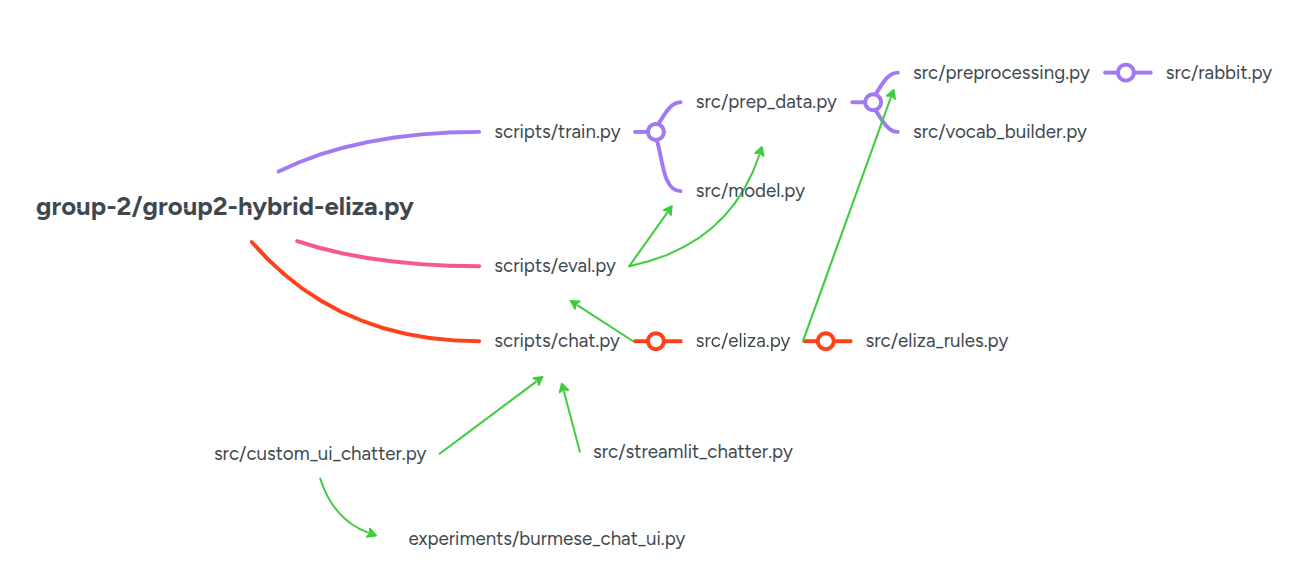
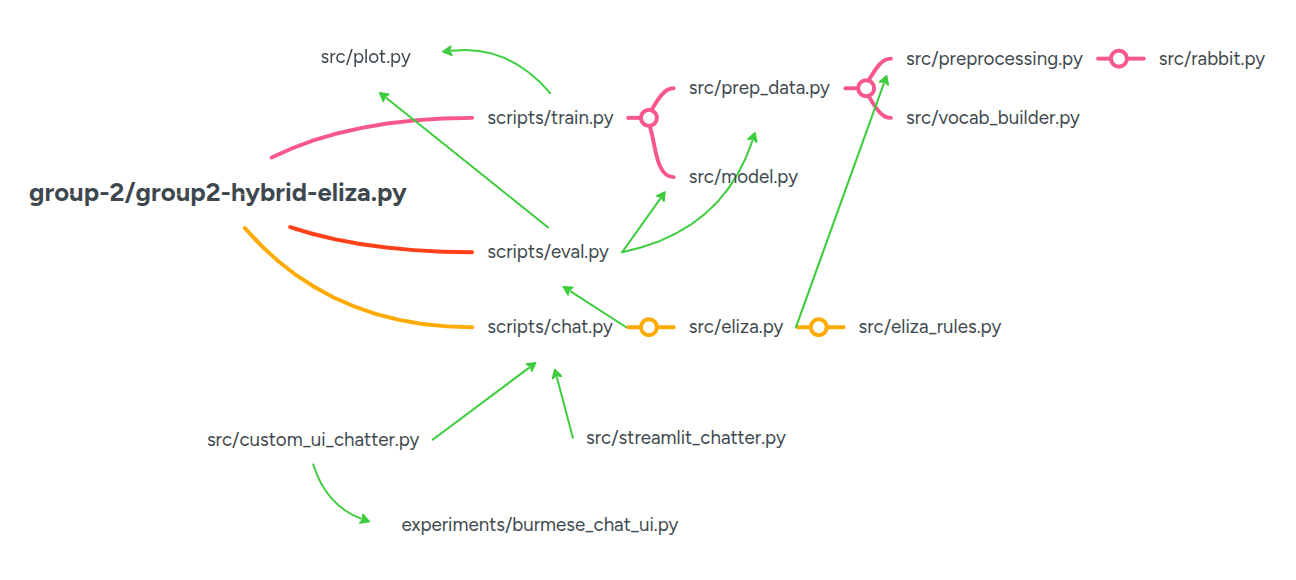
added cm function

diff --git a/assignment-submission/class-1/group-2/src/plot.py b/assignment-submission/class-1/group-2/src/plot.py
@@ -1,0 +1,73 @@
+"""Confusion matrix figure for emotion evaluation (saved PNG, no display required)."""
+
+from __future__ import annotations
+
+import os
+
+import matplotlib
+
+matplotlib.use("Agg")
+import matplotlib.pyplot as plt
+import numpy as np
+import seaborn as sns
+from sklearn.metrics import confusion_matrix
+
+# english axis labels for slides (same class order as src.vocab_builder.DEFAULT_LABEL_ORDER)
+EMOTION_LABELS_EN = ("Sadness", "Joy", "Love", "Anger", "Fear", "Surprise")
+
+
+# function to map class ids to english names for plots/reports; unknown ids fall back to id2label
+def emotion_display_names_en(labels_order: list[int], id2label: dict[int, str]) -> list[str]:
+    out: list[str] = []
+    for i in labels_order:
+        if 0 <= i < len(EMOTION_LABELS_EN):
+            out.append(EMOTION_LABELS_EN[i])
+        else:
+            out.append(str(id2label.get(i, i)))
+    return out
+
+
+# function to save a confusion matrix heatmap for integer class ids and id2label names
+def save_confusion_matrix_png(
+    y_true: list[int] | np.ndarray,
+    y_pred: list[int] | np.ndarray,
+    id2label: dict[int, str],
+    out_path: str,
+    title: str = "Confusion Matrix",
+) -> None:
+    """
+    y_true / y_pred: integer class ids (same convention as training CSV labels).
+    id2label: maps class id -> name from checkpoint (used only as fallback for unknown ids).
+    tick labels use english emotion names for the standard six-class setup.
+    """
+    labels_order = sorted(id2label.keys())
+    if not labels_order:
+        raise ValueError("id2label is empty")
+
+    cm = confusion_matrix(y_true, y_pred, labels=labels_order)
+    tick_names = emotion_display_names_en(labels_order, id2label)
+
+    fig, ax = plt.subplots(figsize=(max(8, len(labels_order)), max(6, len(labels_order))))
+    sns.heatmap(
+        cm,
+        annot=True,
+        fmt="g",
+        cmap="Blues",
+        xticklabels=tick_names,
+        yticklabels=tick_names,
+        ax=ax,
+    )
+    ax.set_ylabel("Actual", fontsize=12)
+    ax.set_xlabel("Predicted", fontsize=12)
+    ax.set_title(title, fontsize=14, pad=12)
+    ax.xaxis.tick_top()
+    ax.xaxis.set_label_position("top")
+    plt.setp(ax.get_xticklabels(), rotation=0)
+    plt.setp(ax.get_yticklabels(), rotation=0)
+    fig.tight_layout()
+
+    out_dir = os.path.dirname(os.path.abspath(out_path))
+    if out_dir:
+        os.makedirs(out_dir, exist_ok=True)
+    fig.savefig(out_path, dpi=150, bbox_inches="tight")
+    plt.close(fig)

diff --git a/assignment-submission/class-1/group-2/scripts/eval.py b/assignment-submission/class-1/group-2/scripts/eval.py
@@ -9,8 +9,10 @@ This module depends on:
 
 import pandas as pd
 import torch
+from sklearn.metrics import classification_report
 
 from src.model import EmotionalBiLSTM
+from src.plot import emotion_display_names_en, save_confusion_matrix_png
 from src.prep_data import drop_invalid_supervised_rows, encode_texts
 
 
@@ -101,6 +103,7 @@ def run_eval(
     stopwords_path="../data/stopwords.txt",  # CLI arg passed with --stopwords_path
     text_col="text",                # CLI arg passed with --text_col
     label_col="label",              # CLI arg passed with --label_col
+    confusion_matrix_out=None,      # optional PNG path (eval set)
 ):
     # load model and preprocessing artifacts from checkpoint
     model, word2id, id2label, max_len, use_char_ngrams, ngram_min, ngram_max = (
@@ -118,6 +121,8 @@ def run_eval(
     # initialize counters
     correct = 0
     total = 0
+    y_all: list[int] = []
+    pred_all: list[int] = []
 
     # evaluate model in batches
     with torch.no_grad():
@@ -143,10 +148,29 @@ def run_eval(
             # update counters
             total += y.size(0)
             correct += (pred == y).sum().item()
+            y_all.extend(y.tolist())
+            pred_all.extend(pred.tolist())
 
     # calculate accuracy
     acc = correct / total if total else 0.0
     print(f"accuracy: {acc:.2%} ({correct}/{total})")
+
+    if confusion_matrix_out:
+        labels_order = sorted(id2label.keys())
+        target_names = emotion_display_names_en(labels_order, id2label)
+        print(
+            classification_report(
+                y_all, pred_all, labels=labels_order, target_names=target_names, zero_division=0
+            )
+        )
+        save_confusion_matrix_png(
+            y_all,
+            pred_all,
+            id2label,
+            confusion_matrix_out,
+            title="Confusion Matrix (eval set)",
+        )
+        print(f"[+] Confusion matrix saved to {confusion_matrix_out}")
 
 
 # function to run evaluation with default values
@@ -156,6 +180,7 @@ def main():
         checkpoint_path="../checkpoints/bilstm_larger_params_after_downsampl.pth",
         data_csv="../data/merged_preprocessed/data_after_downsampling.csv",
         batch_size=32,
+        confusion_matrix_out="../img/confusion_matrix_eval.png",
     )
 
 # run the script

diff --git a/assignment-submission/class-1/group-2/scripts/train.py b/assignment-submission/class-1/group-2/scripts/train.py
@@ -17,6 +17,7 @@ import torch.nn as nn
 import torch.optim as optim
 
 from src.model import EmotionalBiLSTM
+from src.plot import save_confusion_matrix_png
 from src.prep_data import prepare_train_val_data
 
 
@@ -29,7 +30,7 @@ def run_train(
     val_split,                      # CLI arg passed with --val_split
     max_len,                        # CLI arg passed with --max_len
     tokenized_output_path=None,     # not in wrapper; optional debug export path
-    stopwords_path="../data/stopwords.txt",  # CLI arg passed with --stopwords_path
+    stopwords_path="../data/stopwords.txt", # CLI arg passed with --stopwords_path
     text_col="text",                # CLI arg passed with --text_col
     label_col="label",              # CLI arg passed with --label_col
     seed=42,                        # CLI arg passed with --seed
@@ -48,6 +49,7 @@ def run_train(
     dropout: float = 0.3,           # CLI arg passed with --dropout
     pad_idx: int = 0,               # CLI arg passed with --pad_idx
     max_vocab: int = 5000,          # CLI arg passed with --max_vocab
+    confusion_matrix_out: str | None = None, # CLI arg passed with --confusion_matrix_out
 ):
 
     # set seed for reproducibility
@@ -227,6 +229,26 @@ def run_train(
 
     print(f"[+] Checkpoint saved to {checkpoint_path} (best val acc: {best_val_acc:.2%})")
 
+    if confusion_matrix_out and str(confusion_matrix_out).strip():
+        model.eval()
+        y_val: list[int] = []
+        pred_val: list[int] = []
+        with torch.no_grad():
+            for x, y, lengths in val_loader:
+                x, y, lengths = x.to(device), y.to(device), lengths.to(device)
+                outputs = model(x, lengths)
+                _, predicted = torch.max(outputs, 1)
+                y_val.extend(y.cpu().tolist())
+                pred_val.extend(predicted.cpu().tolist())
+        save_confusion_matrix_png(
+            y_val,
+            pred_val,
+            id2label,
+            confusion_matrix_out,
+            title="Confusion Matrix (validation set)",
+        )
+        print(f"[+] Confusion matrix saved to {confusion_matrix_out}")
+
 
 # function to run training with default values
 def main():
@@ -238,6 +260,7 @@ def main():
         batch_size=32,
         val_split=0.2,
         max_len=50,
+        confusion_matrix_out="../img/confusion_matrix_train.png",
     )
 
 # run the script

diff --git a/assignment-submission/class-1/group-2/group2-hybrid-eliza.py b/assignment-submission/class-1/group-2/group2-hybrid-eliza.py
@@ -106,8 +106,28 @@ def main():
         default=8765,
         help="chat mode custom_ui only: port",
     )
+    parser.add_argument(
+        "--confusion_matrix_out",
+        default=None,
+        help=(
+            "train/eval: confusion matrix PNG path. Default: ./img/confusion_matrix_train.png or "
+            "./img/confusion_matrix_eval.png. Pass \"\" to skip. Chat mode ignores this."
+        ),
+    )
 
     args = parser.parse_args()
+
+    # default confusion matrix under img/ for train/eval; "" disables
+    cm_out = args.confusion_matrix_out
+    if cm_out == "":
+        cm_out = None
+    elif args.mode == "train" and cm_out is None:
+        cm_out = "./img/confusion_matrix_train.png"
+    elif args.mode == "eval" and cm_out is None:
+        cm_out = "./img/confusion_matrix_eval.png"
+    elif args.mode == "chat":
+        cm_out = None
+    args.confusion_matrix_out = cm_out
 
     # run training mode
     if args.mode == "train":
@@ -136,6 +156,7 @@ def main():
             dropout=args.dropout,
             pad_idx=args.pad_idx,
             max_vocab=args.max_vocab,
+            confusion_matrix_out=args.confusion_matrix_out,
         )
     # run evaluation mode
     elif args.mode == "eval":
@@ -146,6 +167,7 @@ def main():
             stopwords_path=args.stopwords_path,
             text_col=args.text_col,
             label_col=args.label_col,
+            confusion_matrix_out=args.confusion_matrix_out,
         )
     # run chat mode
     else:

diff --git a/assignment-submission/class-1/group-2/README.md b/assignment-submission/class-1/group-2/README.md
@@ -44,7 +44,8 @@ group-2/
     ├── prep_data.py            # shared tensors/loaders for train / eval / chat encoding
     ├── eliza_rules.py
     ├── eliza.py                # rule engine (separate tokenization from emotion model)
-    └── model.py                # BiLSTM + attention classifier
+    ├── model.py                # BiLSTM + attention classifier
+    └── plot.py                 # optional confusion matrix PNG (eval / train)
 ```
 
 The following diagram summarizes the key components of our modular approach.
@@ -80,6 +81,8 @@ The code is organized so a single wrapper script controls the high-level mode, w
 
 - `src/model.py`: defines the neural emotion classifier; used from `scripts/train.py` and `scripts/eval.py`.
 
+- `src/plot.py`: saves a confusion matrix figure; used from `scripts/train.py` and `scripts/eval.py` optionally.
+
 - `src/rabbit.py`: Zawgyi-to-Unicode conversion support; used from `src/preprocessing.py`.
 
 In short: `group2-hybrid-eliza.py` starts the run; `scripts/*.py` control train/eval/chat; `src/*.py` implements the reusable preprocessing/model utilities.
@@ -102,10 +105,11 @@ Important flags (not exhaustive):
 - `--embed_dim`,
 - `--hidden_dim`,
 - `--use_attention` / `--no-use_attention`,
-- `--use_char_ngrams` / `--no-use_char_ngrams`.
+- `--use_char_ngrams` / `--no-use_char_ngrams`,
+- `--confusion_matrix_out`,
 - `--chat_ui`, `--language`, `--custom_ui_host`, `--custom_ui_port`.
 
-Defaults: training reads `./data/merged_preprocessed/data_after_downsampling.csv` and saves to `./checkpoints/bilstm_larger_params_after_downsampl.pth`.
+Defaults: training reads `./data/merged_preprocessed/data_after_downsampling.csv` and saves to `./checkpoints/bilstm_larger_params_after_downsampl.pth`. Train/eval also write a confusion matrix PNG under `./img/` unless disabled.
 
 ---
 